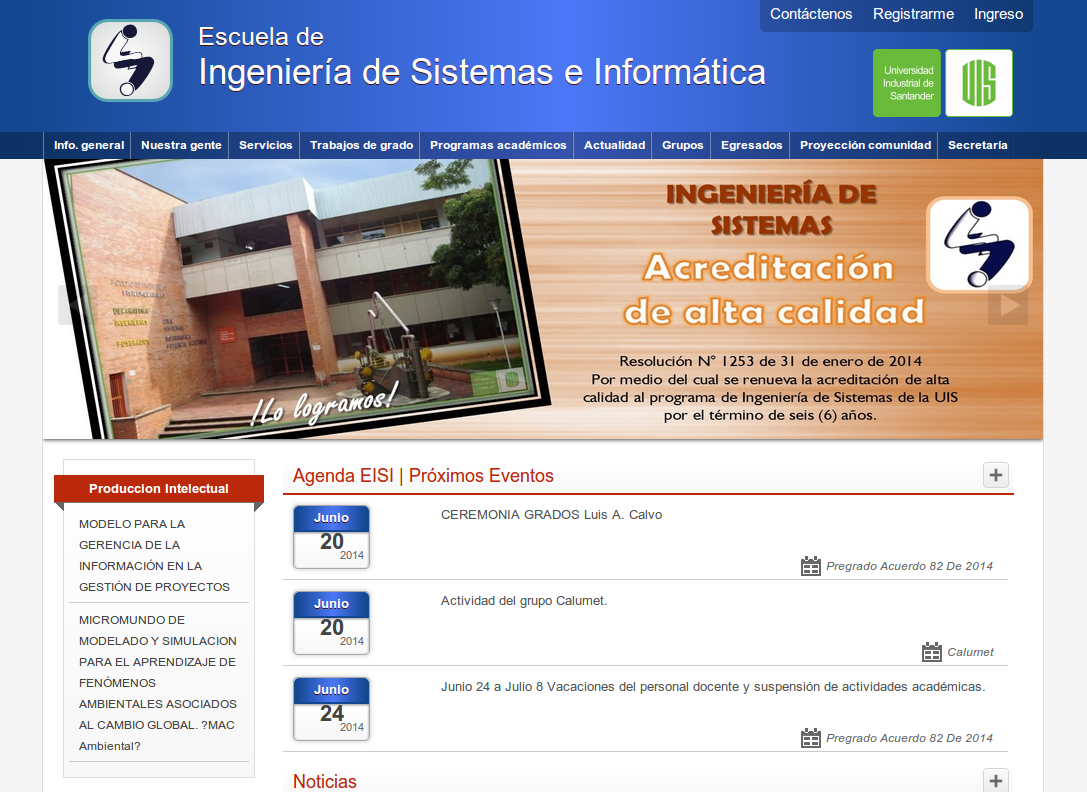
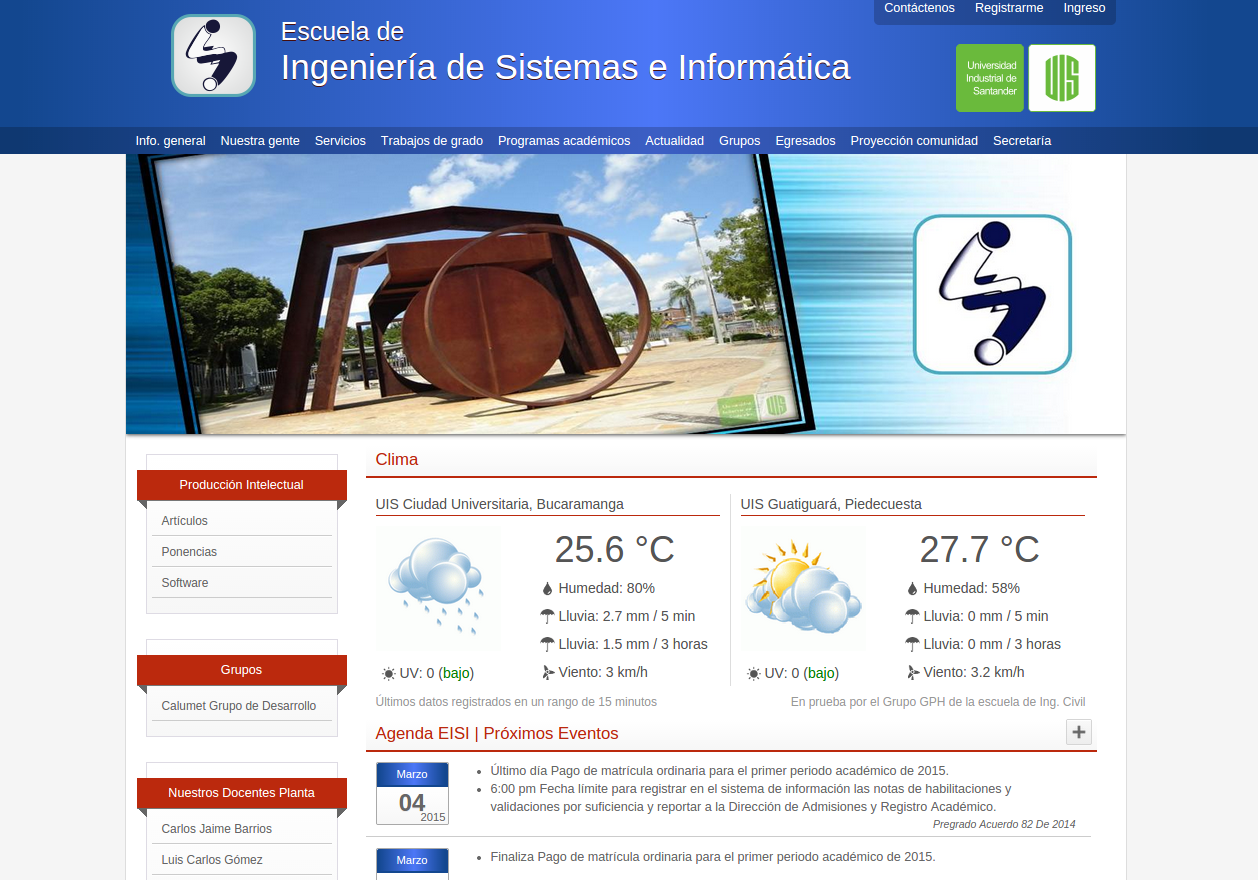
actualización de información e imágenes

diff --git a/index.html b/index.html
@@ -1,7 +1,6 @@
 <!DOCTYPE HTML>
 <html lang="en">
     <head>
-
         <meta charset="UTF-8">
         <meta name="viewport" content="width=device-width, initial-scale=1, maximum-scale=1">
 
@@ -91,36 +90,35 @@
             <!--open .wrapper-->
             <div class="wrapper">
                 <h2>Projects</h2>
-                <blockquote class="big">Currently we are working on four projects in parallel, two of which are in development and the other two are in production and constantly evolving</blockquote>
+                <blockquote class="big">We work in many projects, there are some <a href="http://github.com/calumet" target="_blank">open source</a>, but most of them are focused in our main project, <strong>Web Portal</strong>. Our leading projects are:</blockquote>
                 <!--open .column-->
                 <div class="column">
                     <div class="featured-1"></div>
                     <h3>Web Portal <small>[Private]</small></h3>
-                    <p>Web framework with applications for university school community</p>
+                    <p>Web framework with applications for university school community.</p>
                 </div>
                 <!--close .column-->
                 <!--open .column-->
                 <div class="column">
                     <a href="http://cormoran.uis.edu.co/Elise" target="_target"><div class="featured-2"></div></a>
                     <h3>Elise Library <small>[Private]</small></h3>
-                    <p>Frontend library to create elegant powerful applications extending anothers</p>
+                    <p>Frontend library to create elegant powerful applications extending anothers.</p>
                 </div>
                 <!--close .column-->
                 <!--open .column-->
                 <div class="column">
                     <a href="http://github.com/calumet/realtime" target="_target"><div class="featured-3"></div></a>
                     <h3>RealTime</h3>
-                    <p>Real-time communication applications system for Web Portal</p>
+                    <p>Real-time communication applications system for Web Portals.</p>
                 </div>
                 <!--close .column-->
                 <!--open .column-->
                 <div class="column">
                     <a href="http://elise.github.io" target="_target"><div class="featured-4"></div></a>
-                    <h3>Elise</h3>
-                    <p>Frontend library for agile elegant and responsive development</p>
+                    <h3>Elise Library <small>[beta]</small></h3>
+                    <p>Frontend library for agile elegant and responsive development.</p>
                 </div>
                 <!--close .column-->
-
             </div>
             <!--close .wrapper-->
         </div>
@@ -324,7 +322,7 @@
                 <div class="left-box">
                     <p>Calumet office is located at the Industrial University of Santander, Bucaramanga, Colombia.</p>
                     <ul class="content">
-                         <li class="mail">calumet@comunidaduis.co</li>
+                         <li class="mail">grupocalumet@comunidaduis.co</li>
                          <li class="phone">(57) (7) 634 4000 ext. 2678</li> 
                          <li class="office">Carrera 27 calle 9, University City, LP 202</li>
                     </ul>
@@ -364,14 +362,15 @@
                 </ul>
             </div>
             <!--close .wrapper-->
-            <p>All rights reserved ©2014</p>
+            <p>All rights reserved ©2015</p>
+            <p><small>Last edited March 4, 2015.</small></p>
         </footer>
         <!--close footer-->
 
         <!-- Scripts -->
-        <script src="https://ajax.googleapis.com/ajax/libs/jquery/1.8.3/jquery.min.js"></script>
-        <script src="js/bxslider/jquery.bxslider.min.js"></script>
-        <script src="js/scrollto/jquery-scrollto.js"></script>
-        <script src="js/scripts.js"></script>
+        <script async src="https://ajax.googleapis.com/ajax/libs/jquery/1.8.3/jquery.min.js"></script>
+        <script async src="js/bxslider/jquery.bxslider.min.js"></script>
+        <script async src="js/scrollto/jquery-scrollto.js"></script>
+        <script async src="js/scripts.js"></script>
     </body>
 </html>

diff --git a/js/scripts.js b/js/scripts.js
@@ -1,58 +1,58 @@
 // Calumet - Software Development Group
-// Website, Styles, 2014
+// Website, Styles, 2015
 
 jQuery(document).ready(function ($) {
 
-    // Who are using these projects?
-    $('.whousingthese').bxSlider({
-        slideWidth: 400,
-        minSlides: 2,
-        maxSlides: 2,
-        slideMargin: 10,
-        captions: true,
-        onSliderLoad: function () {
-            $('.whousingthese img').removeAttr('title');
-        }
-    });
+	// Who are using these projects?
+	$('.whousingthese').bxSlider({
+		slideWidth: 400,
+		minSlides: 2,
+		maxSlides: 2,
+		slideMargin: 10,
+		captions: true,
+		onSliderLoad: function () {
+			$('.whousingthese img').removeAttr('title');
+		}
+	});
 
 
-    // Show/Hide previous corworkers
-    $('.team-showprevious').toggle(function (e) {
-        $('.team-previous').slideDown(500);
-        $(this).find('span').text('Hide');
-    }, function (e) {
-        $('.team-previous').slideUp(500);
-        $(this).find('span').text('Show');
-    });
+	// Show/Hide previous corworkers
+	$('.team-showprevious').toggle(function (e) {
+		$('.team-previous').slideDown(500);
+		$(this).find('span').text('Hide');
+	}, function (e) {
+		$('.team-previous').slideUp(500);
+		$(this).find('span').text('Show');
+	});
 
 
-    // Responsive Menu  
-    $("#menu").on('click', function () {
-        $("ul.menu").toggle();
-    });
+	// Responsive Menu  
+	$("#menu").on('click', function () {
+		$("ul.menu").toggle();
+	});
 
 
-    // ScrollTo
-    $('#nav, .menu').find('a').each(function () {
-        var $a = $(this);
-        var href = $a.attr('href');
-        $a.on('click', function (e) {
-            e.preventDefault();
-            $(href).ScrollTo({
-                duration: 1500,
-                offsetTop: 70
-            });
-        });
-    });
+	// ScrollTo
+	$('#nav, .menu').find('a').each(function () {
+		var $a = $(this);
+		var href = $a.attr('href');
+		$a.on('click', function (e) {
+			e.preventDefault();
+			$(href).ScrollTo({
+				duration: 1500,
+				offsetTop: 70
+			});
+		});
+	});
 
 
-    // Google Analytics
-    (function(i,s,o,g,r,a,m){i['GoogleAnalyticsObject']=r;i[r]=i[r]||function(){
-    (i[r].q=i[r].q||[]).push(arguments)},i[r].l=1*new Date();a=s.createElement(o),
-    m=s.getElementsByTagName(o)[0];a.async=1;a.src=g;m.parentNode.insertBefore(a,m)
-    })(window,document,'script','//www.google-analytics.com/analytics.js','ga');
+	// Google Analytics
+	(function(i,s,o,g,r,a,m){i['GoogleAnalyticsObject']=r;i[r]=i[r]||function(){
+	(i[r].q=i[r].q||[]).push(arguments)},i[r].l=1*new Date();a=s.createElement(o),
+	m=s.getElementsByTagName(o)[0];a.async=1;a.src=g;m.parentNode.insertBefore(a,m)
+	})(window,document,'script','//www.google-analytics.com/analytics.js','ga');
 
-    ga('create', 'UA-52137235-1', 'calumet.github.io');
-    ga('send', 'pageview');
+	ga('create', 'UA-52137235-1', 'calumet.github.io');
+	ga('send', 'pageview');
 
 });

diff --git a/css/style.css b/css/style.css
@@ -1,6 +1,6 @@
 /*
  Calumet - Software Development Group
- Website, Styles, 2014
+ Website, Styles, 2015
  Tempplate URL: http://mildthemes.com/templates/mandarina/
 */
 
@@ -397,7 +397,7 @@ ul.menu li a:hover {
 }
 
 .featured-1 {
-    background-image: url('../images/implementations/sistemas.png');
+    background-image: url('../images/featured/portal.png');
     width: 300px;
     height: 300px;
     margin: 0 auto;
@@ -620,6 +620,10 @@ footer {
 
 footer p {
     color: white;
+}
+
+footer p small {
+    color: gray;
 }
 
 ul.social {
